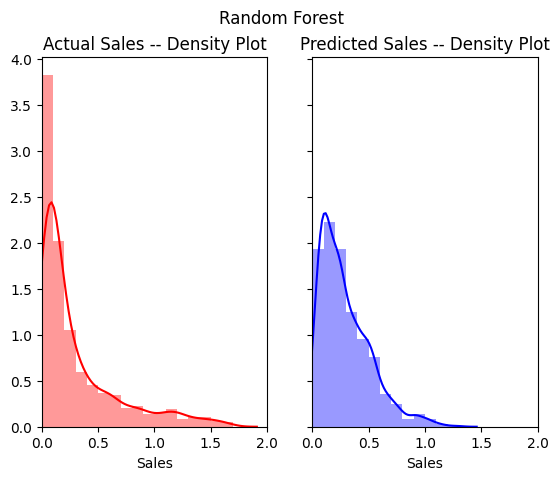
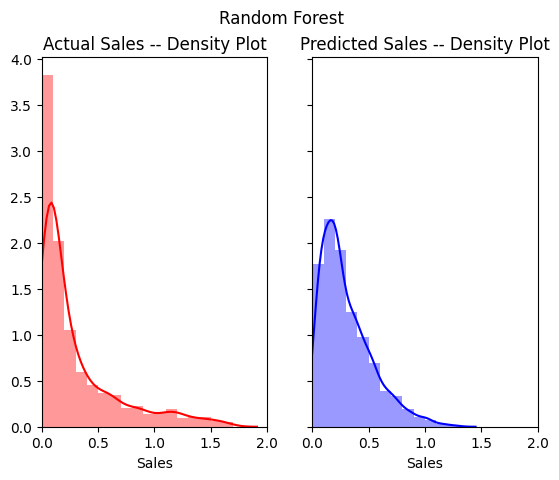
remove gtotal bound

diff --git a/src/main.py b/src/main.py
@@ -25,7 +25,7 @@ def read_data():
             FROM VIDEOGAMES 
             WHERE year_of_release >= 2004 and uscore != 0 and cscore != 0
             GROUP BY name) AS VideogameSummary
-        WHERE g_total != 0 and g_total <= 35
+        WHERE g_total != 0
         ORDER BY g_total DESC;
         '''))
     return res
